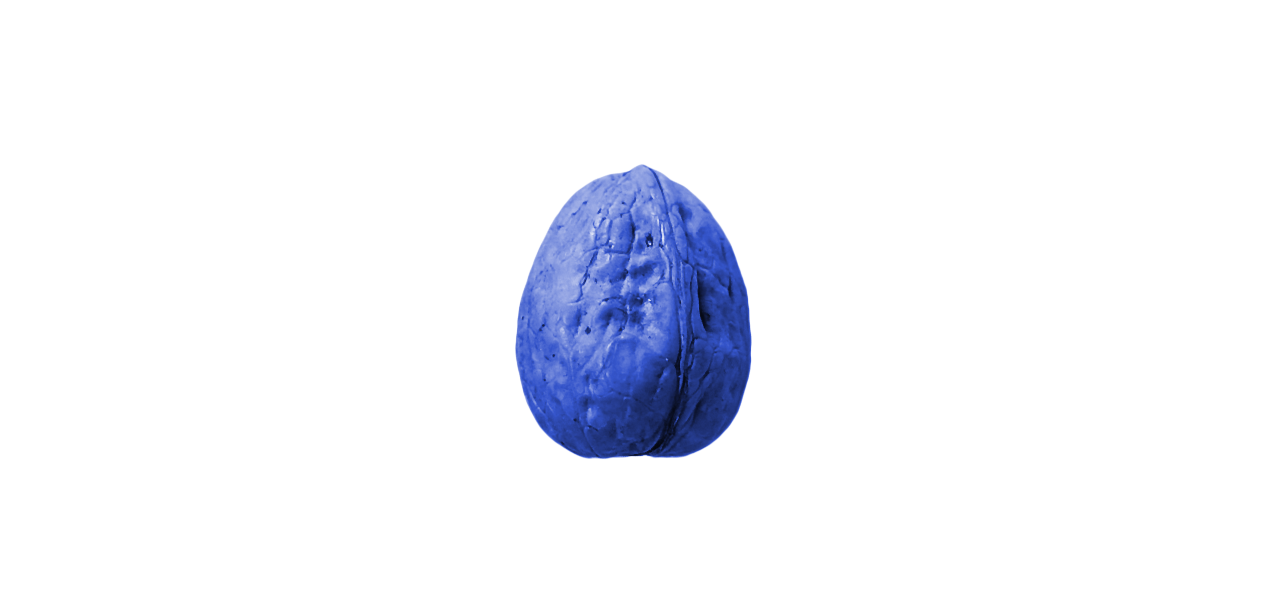
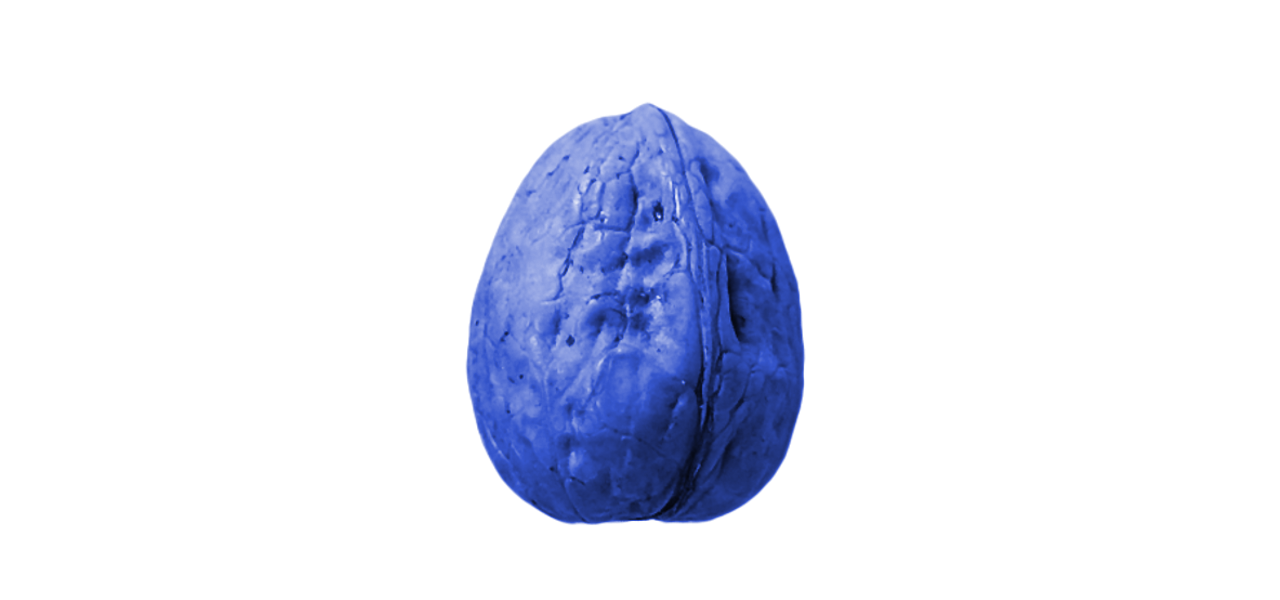
add training; edit walnut; make smaller adjustments

Changed region(s): [[0.3438, 0.15, 0.6562, 0.9]]

diff --git a/js/views.js b/js/views.js
@@ -65,8 +65,7 @@ var initWarmUpView = function(itemsList) {
 		if (e.keyCode == 32) {
 			if (itemsList[current] != null) {
 				$('#warmup-img').html("<img src='img/fruits/" + itemsList[current][0].toLowerCase() + "_" +  itemsList[current][1] + ".png' height=400px>" +
-					"<p class='warmup-phrase'><b>die " +  inflect(itemsList[current][1], itemsList[current][0]) + " " + umlaut(itemsList[current][0]) + "</b></p>" +
-					"<p>Weiter mit Leertaste.</p>");
+					"<p class='warmup-phrase'><b>die " +  inflect(itemsList[current][1], itemsList[current][0]) + " " + umlaut(itemsList[current][0]) + "</b></p>");
 				$('#warmup-info').html("")
 				current = current + 1;
 			} else { 
@@ -91,6 +90,7 @@ var initTrialView = function(trialList, viewName) {
 		if (trialList[current] != null) {
 			if (competitorSequence) {
 				$("#curtain").fadeIn('fast');
+				$("#sentence").fadeOut('fast');
 				$("#start-point").fadeIn('fast');
 				targetSequence = true;
 				setTimeout(function() {
@@ -103,6 +103,9 @@ var initTrialView = function(trialList, viewName) {
 					competitorSentence(competitorAdjective + " " + competitorNoun);
 					competitorSequence = false;
 					$("#curtain").fadeOut('fast');
+					setTimeout(function() {
+						$("#sentence").fadeIn('fast');
+					}, 1500);
 					$("#start-point").fadeOut('fast');
 				}, 3000);
 			} else if (targetSequence) {
@@ -142,8 +145,10 @@ var umlaut = function(word) {
 
 var competitorSentence = function(competitor) {
 	$("#arrow-target").removeClass("arrow");
-	$("#arrow-competitor").addClass("arrow");
-	$("#sentence").html("<br>Du sollst auf die <b>" + competitor + "</b> klicken.")
+	setTimeout(function() {
+		$("#arrow-competitor").addClass("arrow");
+		$("#sentence").html("<br>Du sollst auf die <b>" + competitor + "</b> klicken.")
+	}, 1500);
 }
 
 var targetSentence = function(target) {

diff --git a/js/main.js b/js/main.js
@@ -1,4 +1,5 @@
 var extremes = [];
+var trainingList = [];
 var trialList = [];
 
 $(document).ready(function(){
@@ -12,6 +13,19 @@ $(document).ready(function(){
 			for (line_number in lines) {
 				if (lines[line_number] != "") {
 					extremes.push(lines[line_number].split(";"));
+				}
+			}
+		}
+	});
+
+	$.ajax({
+		url: "http://0.0.0.0:8080/training",
+		contentType: "text/plain",
+		success: function(response) {
+			var lines = response.split("\n");
+			for (line_number in lines) {
+				if (lines[line_number] != "" & line_number > 0) {
+					trainingList.push(lines[line_number].split(";"));
 				}
 			}
 		}
@@ -33,9 +47,6 @@ $(document).ready(function(){
 
 var exp = {};
 
-var trialListTraining = trialList;
-var trialListExp = trialList;
-
 /* view handler */
 exp.getNextView = function() {
 	if (this.view.name === 'intro') {
@@ -43,11 +54,11 @@ exp.getNextView = function() {
 	} else if (this.view.name === 'warm-up') {
 		this.view = initInstructionsView();
 	} else if (this.view.name === 'instructions') {
-		this.view = initTrialView(trialListTraining, 'practice');
+		this.view = initTrialView(trainingList, 'practice');
 	} else if ((this.view.name === 'practice')){
-		this.view = initBeginExpView(trialListExp);
+		this.view = initBeginExpView();
 	} else if (this.view.name === 'beginExp') {
-		this.view = initTrialView(trialListExp, 'exp');
+		this.view = initTrialView(trialList, 'exp');
 	} else {
 		this.view = initEndView();
 	}

diff --git a/index.html b/index.html
@@ -35,6 +35,16 @@
 				</div>
 			</script>
 
+			<script id="warmup-templ" type="x-tmpl-mustache">
+				<div class="warmup-templ">
+					<div id="warmup-img" class="info"></div>
+					<div id="warmup-info" class="info">
+						<h2>Vorbereitung</h2>
+						<p>Zunächst einmal müssen wir das Mikrofon aussteuern. Wir bitten Sie dazu, die Farben und Namen der Gegenstände, die Sie gleich sehen, laut vorzulesen.</p>
+					</div>
+				</div>
+			</script>
+
 			<script id="instructions-templ" type="x-tmpl-mustache">
 				<div class="instructions-templ info">
 					<h2>Einleitung</h2>
@@ -64,17 +74,6 @@
 					<p>Im nächsten Abschnitt trainieren wir den Ablauf ein wenig.</p>
 
 					<button type="submit" id="continue-btn" class="continue-btn">Weiter</button>
-				</div>
-			</script>
-
-			<script id="warmup-templ" type="x-tmpl-mustache">
-				<div class="warmup-templ">
-					<div id="warmup-img" class="info"></div>
-					<div id="warmup-info" class="info">
-						<h2>Vorbereitung</h2>
-						<p>Zunächst einmal müssen wir das Mikrofon aussteuern. Wir bitten Sie dazu, die Farben und Namen der Gegenstände, die sie gleich sehen, laut vorzulesen. Betätigen Sie jeweils die Leertaste, um zum nächsten Gegenstand zu gelangen.</p>
-						<p>Mit Leertaste geht es los.</p>
-					</div>
 				</div>
 			</script>
 

diff --git a/py/server.py b/py/server.py
@@ -2,6 +2,7 @@ import web
 
 urls = (
 	'/extremes', 'extremes',
+	'/training', 'training',
 	'/trials', 'trials'
 )
 
@@ -16,6 +17,19 @@ class extremes:
   def get_list(self):
 	with open("../data/extreme_list.csv", "rU") as content_file:
 		content = content_file.read()
+		return content
+
+class training:
+	def GET(self):
+		web.header('Access-Control-Allow-Origin', '*')
+		web.header('Access-Control-Allow-Credentials', 'true')
+		web.header('Content-Type','text/plain; charset=utf-8', unique=True)
+		my_fruits = self.get_list()
+		return my_fruits
+
+	def get_list(self):
+		with open("../data/training.csv", "rU") as content_file:
+			content = content_file.read()
 		return content
 
 class trials:
